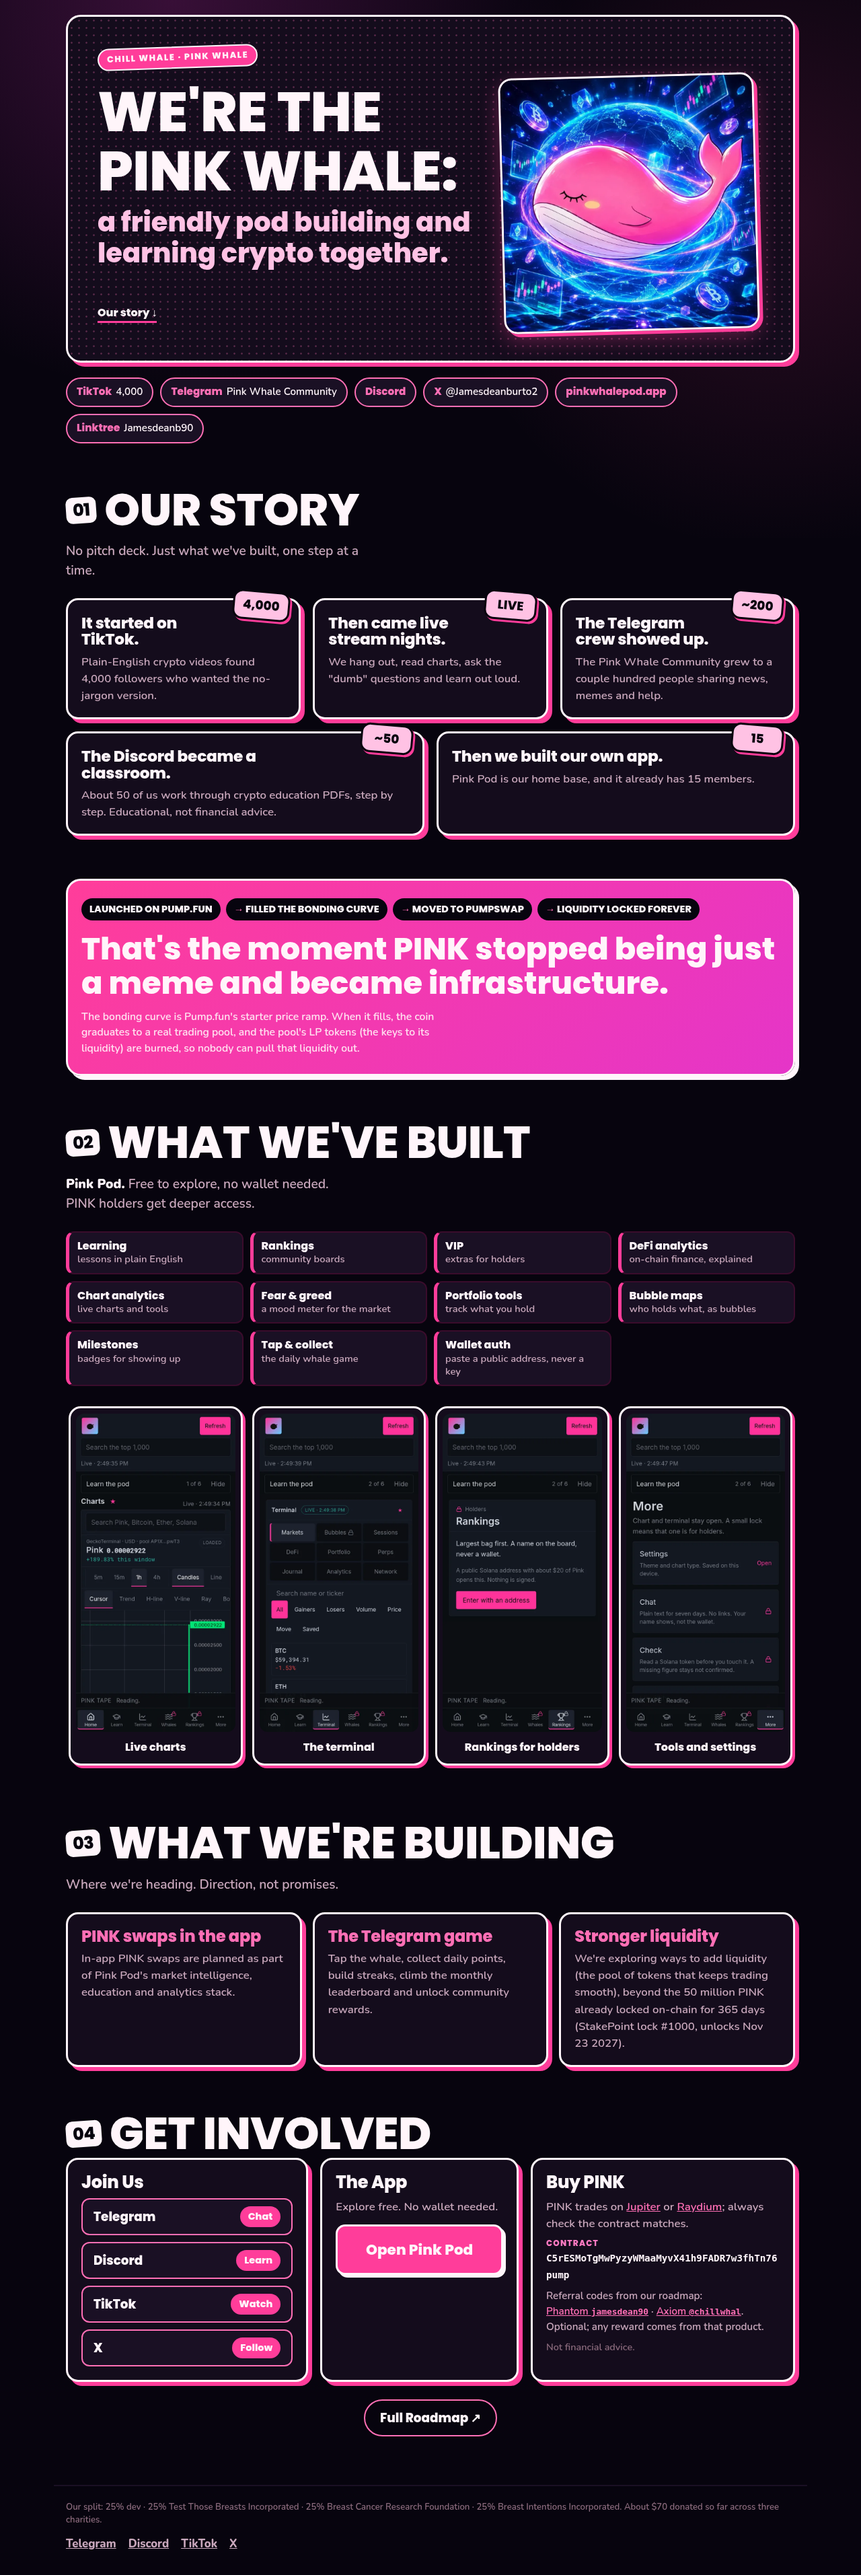
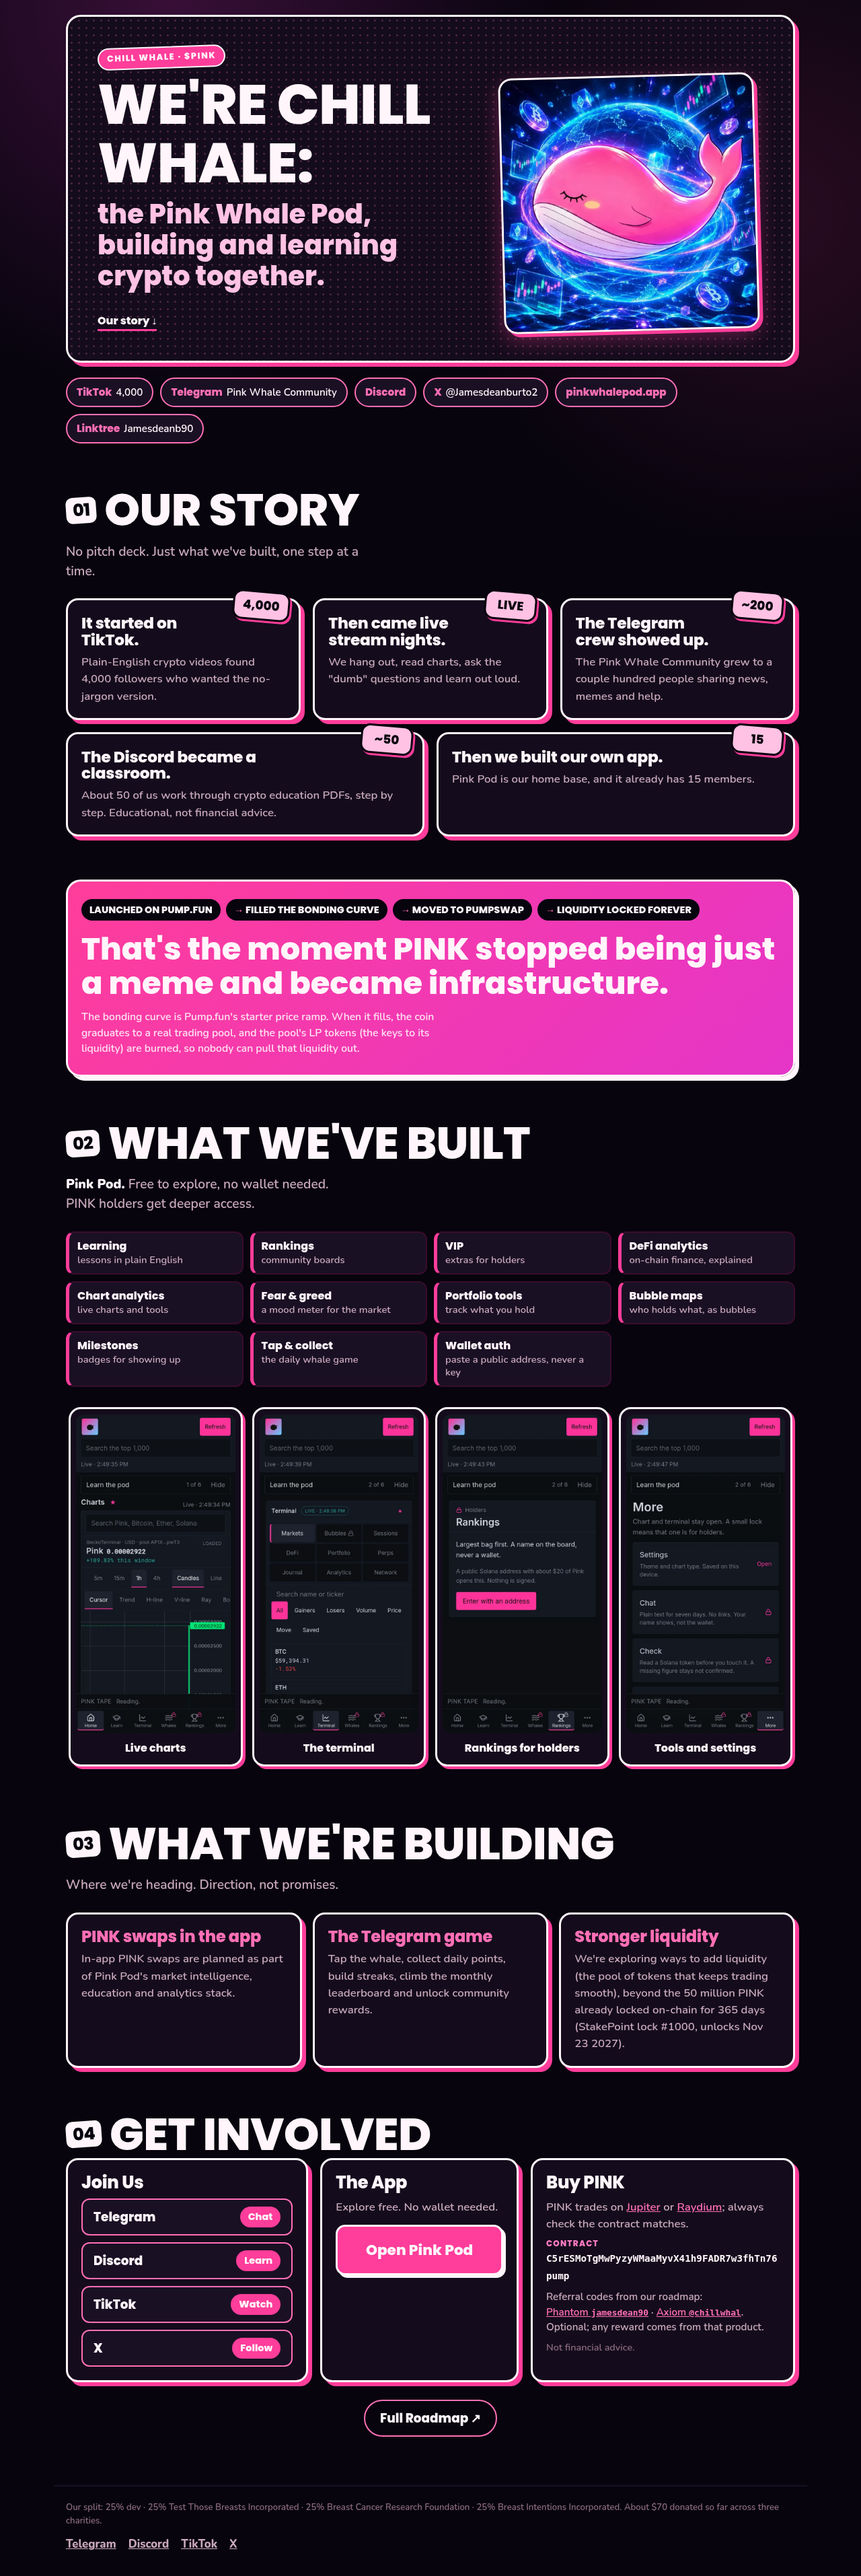
Naming per James (t46u): brand Chill Whale, ticker $PINK, community the Pink Whale Pod

diff --git a/index.html b/index.html
@@ -3,22 +3,22 @@
 <head>
 <meta charset="utf-8">
 <meta name="viewport" content="width=device-width, initial-scale=1">
-<title>Pink Whale — building and learning crypto together</title>
-<meta name="description" content="The Pink Whale is a friendly crypto community: TikTok, live streams, Telegram, a Discord classroom and the Pink Pod app. Building and learning together.">
+<title>Chill Whale — building and learning crypto together</title>
+<meta name="description" content="Chill Whale and the Pink Whale Pod, a friendly crypto community: TikTok, live streams, Telegram, a Discord classroom and the Pink Pod app. Building and learning together.">
 <meta name="theme-color" content="#07040e">
 <link rel="canonical" href="https://pinkwhalepod.app/">
 <meta property="og:type" content="website">
-<meta property="og:site_name" content="Pink Whale">
-<meta property="og:title" content="Pink Whale — building and learning crypto together">
-<meta property="og:description" content="A pink whale, a friendly pod, and a lot of people learning crypto out loud. Free to explore.">
+<meta property="og:site_name" content="Chill Whale">
+<meta property="og:title" content="Chill Whale — building and learning crypto together">
+<meta property="og:description" content="Chill Whale, the Pink Whale Pod, and a lot of people learning crypto out loud. Free to explore.">
 <meta property="og:url" content="https://pinkwhalepod.app/">
 <meta property="og:image" content="https://pinkwhalepod.app/img/og.png">
 <meta property="og:image:width" content="1200">
 <meta property="og:image:height" content="630">
-<meta property="og:image:alt" content="The pink whale over the words: building and learning together.">
+<meta property="og:image:alt" content="Chill Whale artwork beside the words: building and learning crypto together.">
 <meta name="twitter:card" content="summary_large_image">
-<meta name="twitter:title" content="Pink Whale — building and learning crypto together">
-<meta name="twitter:description" content="A pink whale, a friendly pod, and a lot of people learning crypto out loud. Free to explore.">
+<meta name="twitter:title" content="Chill Whale — building and learning crypto together">
+<meta name="twitter:description" content="Chill Whale, the Pink Whale Pod, and a lot of people learning crypto out loud. Free to explore.">
 <meta name="twitter:image" content="https://pinkwhalepod.app/img/og.png">
 <link rel="icon" href="img/favicon.png" type="image/png" sizes="64x64">
 <link rel="apple-touch-icon" href="img/apple-touch-icon.png">
@@ -29,9 +29,9 @@
 
 <header class="hero panel-wrap">
   <div class="hero-panel">
-    <span class="tag">Chill Whale · Pink Whale</span>
-    <img class="hero-whale" src="img/pink-whale.webp" alt="The pink whale" width="1024" height="1024">
-    <h1>We're the Pink Whale: <span class="hl">a friendly pod building and learning crypto together.</span></h1>
+    <span class="tag">Chill Whale · $PINK</span>
+    <img class="hero-whale" src="img/pink-whale.webp" alt="Chill Whale artwork" width="1024" height="1024">
+    <h1>We're Chill Whale: <span class="hl">the Pink Whale Pod, building and learning crypto together.</span></h1>
     <a class="scroll-cue" href="#story">Our story ↓</a>
   </div>
 

diff --git a/README.md b/README.md
@@ -1,6 +1,6 @@
 # pinkwhale-site
 
-Single-page community site for the Pink Whale (target domain: pinkwhalepod.app).
+Single-page site for Chill Whale ($PINK) and the Pink Whale Pod community (target domain: pinkwhalepod.app).
 Static HTML + CSS, no JavaScript, no build step, no trackers, self-hosted fonts.
 
 - `index.html`, `styles.css` — the page
